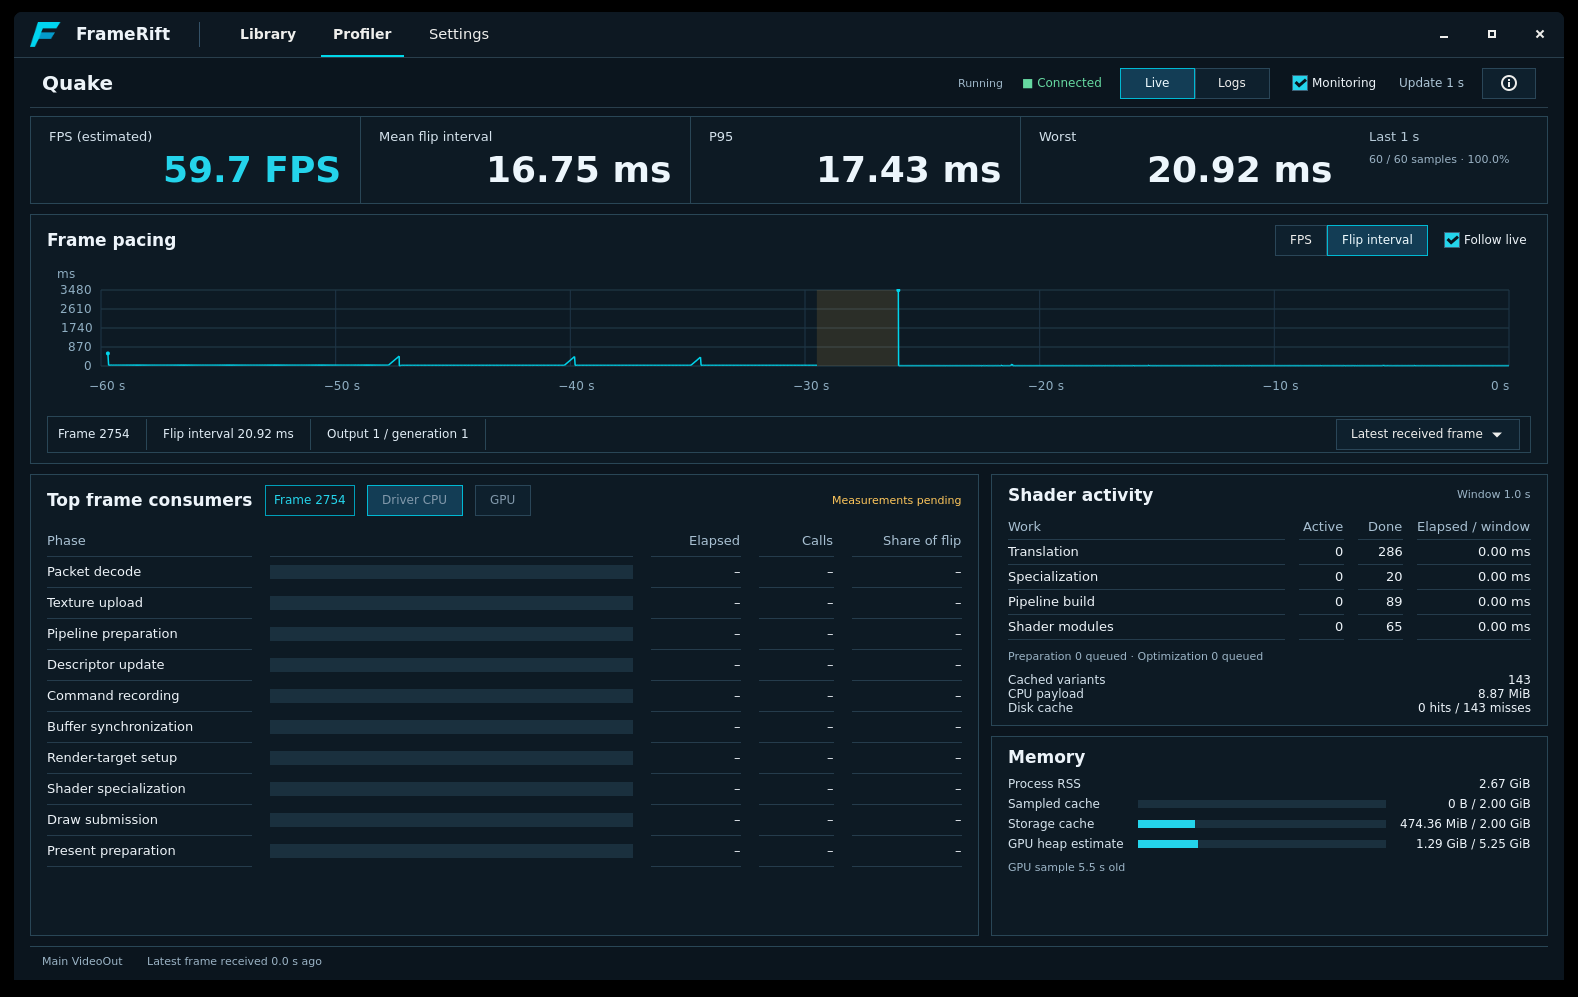
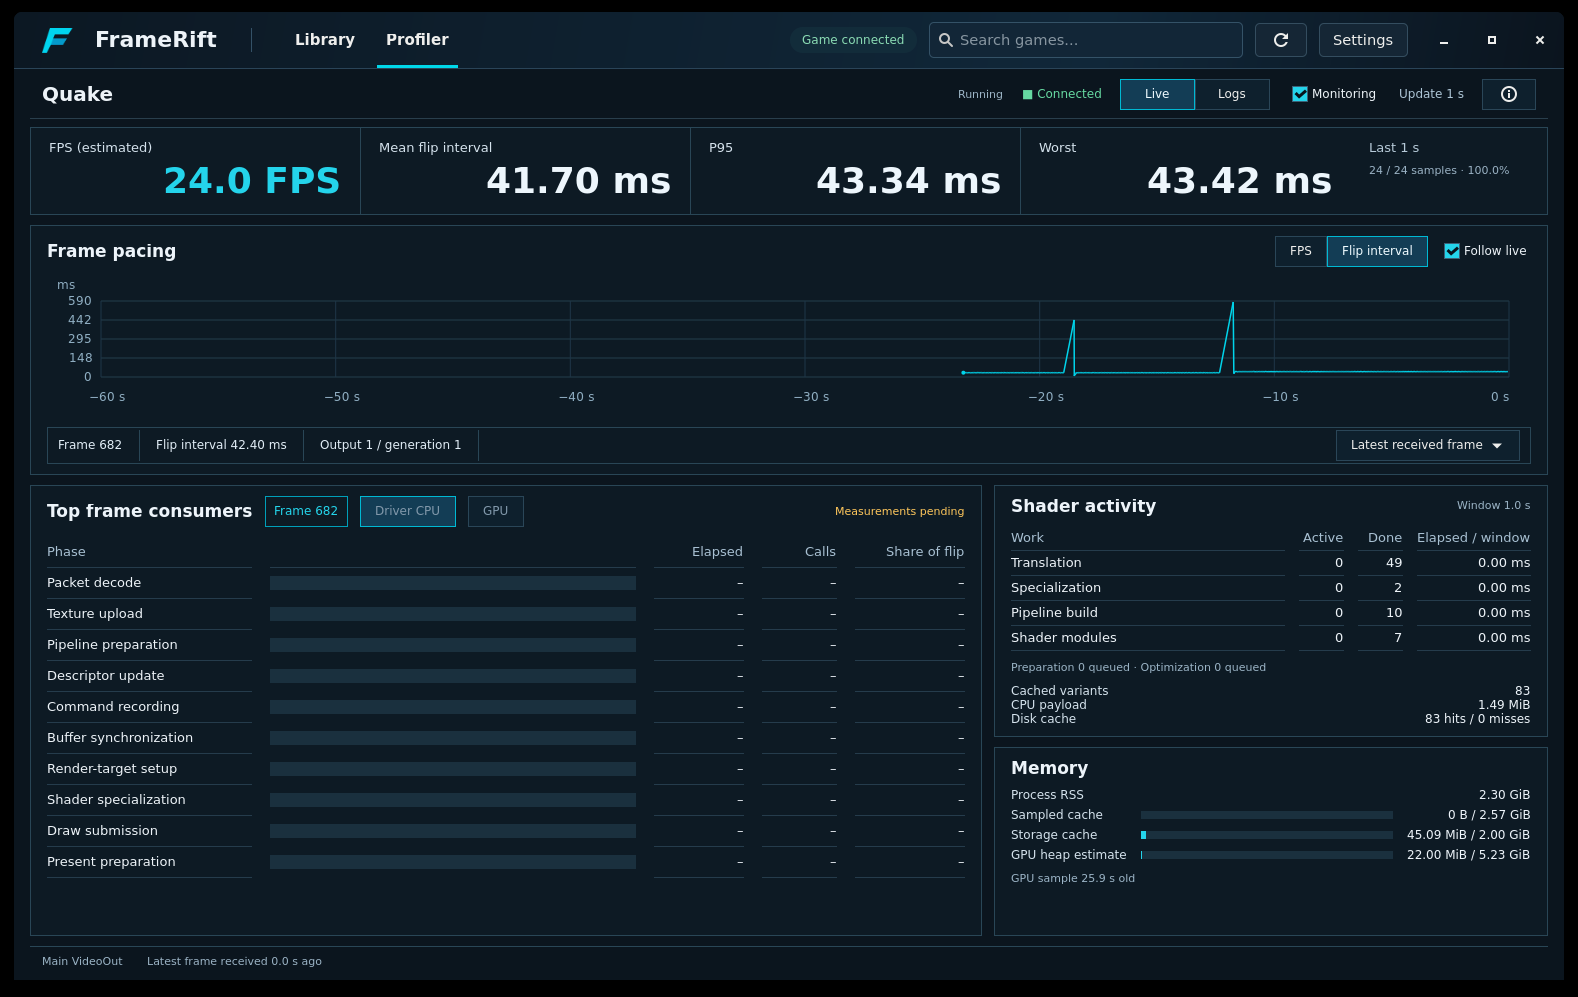
fix(ui): keep the library header as the shared app shell

diff --git a/assets/ui/style.css b/assets/ui/style.css
@@ -51,12 +51,6 @@ button { box-shadow: none; text-shadow: none; }
 .window-buttons button.close:hover { background: #c73d50; }
 .bridge-indicator { color: #91a7b7; font-size: 12px; padding: 6px 12px; border-radius: 14px; background: #122c3a; }
 .bridge-indicator.connected { color: #8adbb3; }
-.profiler-window .topbar { min-height: 42px; padding-left: 16px; background: #0d1822; border-bottom: 1px solid #293e4c; }
-.profiler-window .window-buttons button { min-height: 42px; }
-.profiler-window .brand { font-size: 17px; margin-left: 2px; }
-.profiler-window .topbar separator { margin: 10px 16px; }
-.profiler-window .nav-tab { font-size: 14px; padding: 11px 12px 9px; border-bottom-width: 2px; }
-.profiler-window .toolbar-action { background: transparent; border: none; border-radius: 0; min-height: 30px; }
 .profiler-page { padding: 8px 16px 12px; background: #0b151e; }
 .profiler-page button, .profiler-page dropdown > button { border-radius: 0; border: 1px solid #2a4658; background: #0e202d; padding: 3px 14px; min-height: 23px; box-shadow: none; font-size: 12px; }
 .profiler-page button:checked { background: #133d55; border-color: #00b9d3; color: #effbff; }

diff --git a/src/ui/app.cpp b/src/ui/app.cpp
@@ -171,7 +171,7 @@ private:
         gtk_stack_set_transition_duration(GTK_STACK(pages_), 140);
         gtk_widget_set_vexpand(pages_, true);
         gtk_window_set_child(GTK_WINDOW(window_), pages_);
-        gtk_window_set_titlebar(GTK_WINDOW(window_), header());
+        gtk_window_set_titlebar(GTK_WINDOW(window_), app_header());
         gtk_stack_add_named(GTK_STACK(pages_), library_view(), "library");
         if (!profiler_) profiler_ = std::make_unique<ProfilerView>([this](bool enabled) {
             if (!bridge_) throw std::runtime_error("The game bridge is unavailable");
@@ -196,7 +196,7 @@ private:
         if (!library_.game_folders().empty()) refresh_library(app);
     }
 
-    GtkWidget* header() {
+    GtkWidget* app_header() {
         auto* handle = gtk_window_handle_new();
         auto* row = box(GTK_ORIENTATION_HORIZONTAL, 12);
         gtk_widget_add_css_class(row, "topbar");
@@ -226,6 +226,7 @@ private:
         g_signal_connect(search_, "search-changed", G_CALLBACK(+[](GtkSearchEntry*, gpointer data) {
             auto& self = *static_cast<Application*>(data);
             self.guard([&] {
+                self.show_page("library");
                 self.refresh_filter();
             });
         }), this);
@@ -237,7 +238,10 @@ private:
         gtk_widget_set_tooltip_text(refresh_, "Refresh library");
         g_signal_connect(refresh_, "clicked", G_CALLBACK(+[](GtkButton*, gpointer data) {
             auto& self = *static_cast<Application*>(data);
-            self.guard([&] { self.refresh_library(gtk_window_get_application(GTK_WINDOW(self.window_)), true); });
+            self.guard([&] {
+                self.show_page("library");
+                self.refresh_library(gtk_window_get_application(GTK_WINDOW(self.window_)), true);
+            });
         }), this);
         gtk_box_append(GTK_BOX(row), refresh_);
         folders_action_ = button("Settings", "toolbar-action");
@@ -319,13 +323,6 @@ private:
     void show_page(const char* page) {
         gtk_stack_set_visible_child_name(GTK_STACK(pages_), page);
         const bool library = g_str_equal(page, "library");
-        if (library) gtk_widget_remove_css_class(window_, "profiler-window");
-        else gtk_widget_add_css_class(window_, "profiler-window");
-        gtk_widget_set_visible(bridge_indicator_, library);
-        gtk_box_reorder_child_after(GTK_BOX(gtk_widget_get_parent(folders_action_)), folders_action_,
-            library ? refresh_ : profiler_tab_);
-        gtk_widget_set_visible(search_, library);
-        gtk_widget_set_visible(refresh_, library);
         for (auto* tab : {library_tab_, profiler_tab_}) {
             if ((tab == library_tab_) == library) gtk_widget_add_css_class(tab, "active");
             else gtk_widget_remove_css_class(tab, "active");

diff --git a/docs/profiler-design-review.md b/docs/profiler-design-review.md
@@ -7,7 +7,7 @@ Additional attribution terms: see NOTICE in the repository root.
 
 # Native profiler visual review
 
-Reference: [profiler-live-v6](../assets/design/profiler-live-v6.png), 1578 × 997. The native screenshots use the same window dimensions and real bridge observations. Consumer timing has no source yet and intentionally shows `–` and empty bars. The latest requested simplification removes permanent scope explanations and the normal-state missing-frame warning; details remain in tooltips.
+Reference: [profiler-live-v6](../assets/design/profiler-live-v6.png), 1578 × 997. The native screenshots use the same window dimensions and real bridge observations. Consumer timing has no source yet and intentionally shows `–` and empty bars. The application header follows the shared Library shell on every page; the v6 page layout starts below it. The latest requested simplification removes permanent scope explanations and the normal-state missing-frame warning; details remain in tooltips.
 
 ![Native FPS dashboard](../assets/screenshots/profiler-live.png)
 
@@ -20,13 +20,14 @@ Manual weighted assessment: **84/100**, exceeding the requested 75% threshold. T
 | Area | Score | Evidence / differences |
 | --- | --- | --- |
 | Composition | 30/35 | Session strip, four metrics, full-width chart, ten-row consumer table, shader/memory right column and status rail match. No automation. |
-| Geometry and spacing | 20/25 | Flat rectangular panels and approximately 64/36 lower split. Native decorations add an inset; chart baseline and row heights differ slightly. |
+| Geometry and spacing | 20/25 | Flat rectangular panels and approximately 64/36 lower split. The shared Library header has its original height and controls instead of the compact concept header. Native decorations add an inset; chart baseline and row heights differ slightly. |
 | Palette and surfaces | 17/20 | Dark matte navy, cyan active controls, thin slate borders, restrained amber activity/stale states. Native surface is less textured. |
 | Typography and numeric alignment | 13/15 | Right-aligned tabular numbers and consistent decimal precision. Metric columns and summary width remain stable as values change. Native text is slightly smaller. Screenshots before/after the 3000 ms → 16 ms change retain the same metric dividers. |
 | Controls | 4/5 | FPS default, flip toggle, Live/Logs, monitoring and Follow live. Unsupported CPU/GPU measurement controls are disabled; update rate is fixed at one second. |
 
 ## Verification
 
+- Shared-shell check: Library and Profiler screenshots at 1578 × 997 have identical branding and global-control header pixels; only the active tab marker changes.
 - Full clean native build (`cmake --build build --clean-first -j2`).
 - Bridge and game MCP checks pass. Added frame-rate checks cover 60 FPS, a 2.5 ms catch-up interval, a five-second stall, loss and epoch changes.
 - Native monitoring, FPS/interval toggle, selection/Follow live, Logs and Library navigation checked while the game continued running; session control used Codex FrameRift MCP.

diff --git a/docs/design.md b/docs/design.md
@@ -17,6 +17,10 @@ The UI is native. Animations should provide short, smooth transitions and immedi
 
 The implementation covers the library/cache, automatic folder scanning, Linux launch/rebuild, Profiler console output, local UDP/MCP receiving and game control, Settings with keyring credentials and animated heroes. AnyPS5's optional adapter supplies live flip pacing, shader activity and memory. The native Live dashboard follows profiler-live-v6; detailed frame attribution, captures and saved input scripts remain design targets.
 
+## Shared application shell
+
+The application creates one header outside the page stack. Branding, navigation, connection status, game search, refresh, Settings and window controls retain the Library header layout and styling on every page. Switching tabs changes only the page content and active navigation marker. Pages do not rebuild, restyle, hide or reorder shell controls. Search and refresh open the Library; profiler session controls stay within the Profiler page.
+
 ## View 1: Library
 
 ![Library design concept](../assets/design/library.png)

diff --git a/AGENTS.md b/AGENTS.md
@@ -15,6 +15,7 @@ Additional attribution terms: see NOTICE in the repository root.
 - Write code, identifiers, comments and UI text in English.
 - Keep data and behavior in their domain; reuse existing code before adding a file or abstraction.
 - Keep SQLite game/cache queries in `src/library`; keep GTK presentation in `src/ui`.
+- Build the app header once outside the page stack; keep its layout, styles and controls identical on every page. Pages own only their content.
 - Keep conversion and process launching in `src/runtime`; reuse the AnyPS5 launcher with explicit original-game, generated-code and shared-runtime paths.
 - Rebuild only generated game code; preserve original files, runtime data, saves, shader caches and shared runtime libraries.
 - Use VTE only for profiler output; keep direct process capture and full session logs in `src/runtime`, bound scrollback and keep the game independent of tab navigation.
